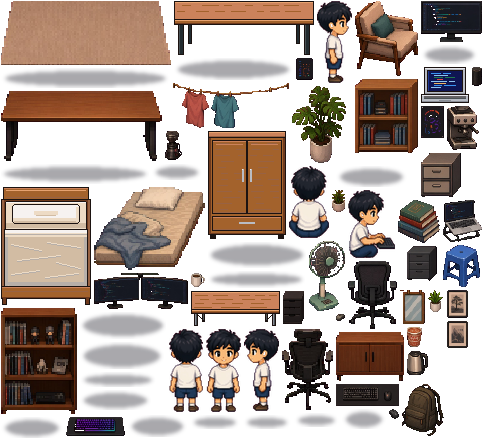
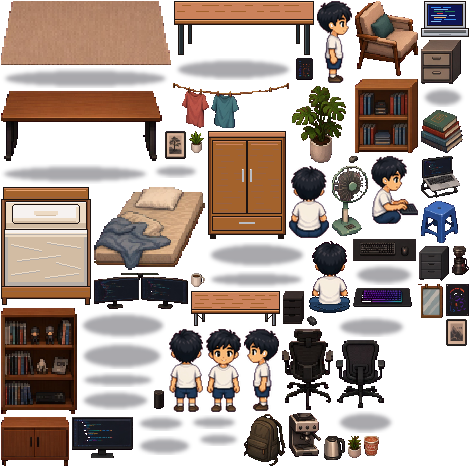
feat(art): seat the student with the sit_floor pose
Add the cross-legged back-view sprite and use it for the folding table when no chair is placed.

diff --git a/tests/unit/resolveScene.test.ts b/tests/unit/resolveScene.test.ts
@@ -11,6 +11,7 @@ const frames = (sprite: string) => {
     "furniture/student/laptop": [48, 36],
     "furniture/student/mouse": [9, 7],
     "character/derived/char_sit_back": [40, 72],
+    "character/derived/char_sit_floor": [41, 72],
   };
   const [w, h] = sizes[sprite] ?? [32, 32];
   return { w, h, pivotX: Math.floor(w / 2), pivotY: h };
@@ -61,7 +62,7 @@ describe("resolveScene", () => {
     const character = entries.find((e) => e.key === "character");
     expect(laptop?.x).toBe(238);
     expect(laptop?.y).toBe(78);
-    expect(character?.sprite).toBe("character/derived/char_sit_back");
+    expect(character?.sprite).toBe("character/derived/char_sit_floor");
     expect(character?.x).toBe(242);
     expect(character?.y).toBe(76);
     const order = entries.map((e) => e.key);

diff --git a/docs/PLAN.md b/docs/PLAN.md
@@ -255,7 +255,7 @@ M1 uses only `sit_back`. The other poses are cut now for later milestones. The f
   - folding_table `[0,6]`: in front of the table, under the window. The room default leaves the chair empty.
   - junior desk `[5,22]`
   - standing_desk `[1,35]`
-- No chair, and the desk defines `floorSit`: hip at `desk.anchor + floorSit.offset`, sprite from `poses[floorSit.pose]`, drawn on the desk's baseline after every socket named in `drawAfter` (later sockets stay in front). The student table uses pose `sit_back` and `drawAfter: ["display"]`, so the head covers the laptop and the mouse stays in front. There is no cross-legged frame; `sit_back` is the seated back-view approximation.
+- No chair, and the desk defines `floorSit`: hip at `desk.anchor + floorSit.offset`, sprite from `poses[floorSit.pose]`, drawn on the desk's baseline after every socket named in `drawAfter` (later sockets stay in front). The student table uses pose `sit_floor` (`character/derived/char_sit_floor.png`, hip 9px from the bottom) and `drawAfter: ["display"]`, so the head covers the laptop and the mouse stays in front.
 - No chair and no `floorSit`: hip at `desk.anchor + desk.seat + [0, −4]` with `sit_back` (the previous fallback).
 - Toggle "Show character" hides him.
 - Long-term the art should provide split `chair_back` / `chair_front` layers. When those exist, the item JSON gets `overlaySprite` and `overlayFromY` is dropped. Keep the renderer code path generic: "draw overlay = sprite + optional source rect".
